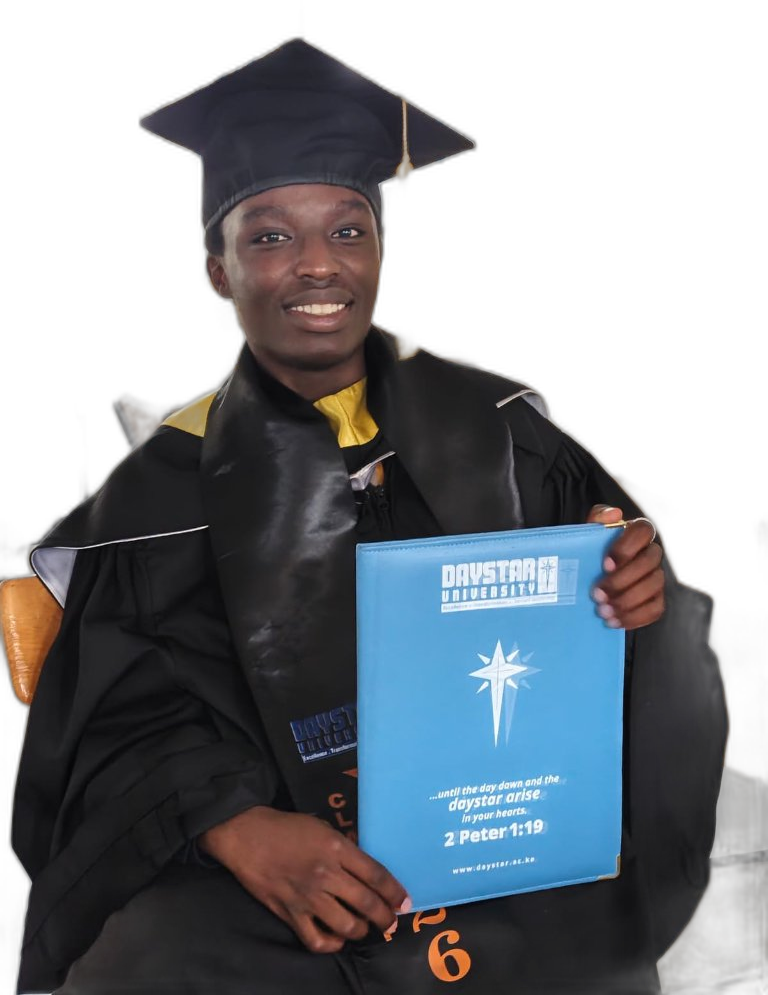
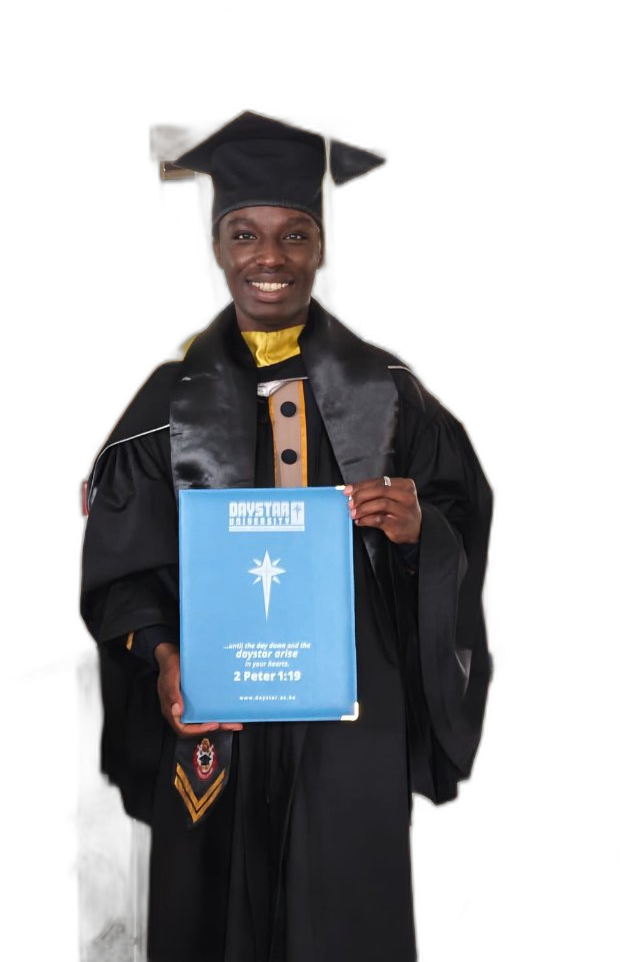
feat: update graduation cutout to new upright standing portrait with clean background removal

diff --git a/admin.html b/admin.html
@@ -1545,7 +1545,7 @@
               <!-- Golden Arched Frame -->
               <div
                 style="position: relative; width: 100%; max-width: 175px; height: 215px; border-radius: 85px 85px 8px 8px; border: 3px solid #fbbf24; box-shadow: 0 0 20px rgba(251, 191, 36, 0.35), inset 0 0 15px rgba(251, 191, 36, 0.2); background: radial-gradient(circle at 50% 25%, #1d3557 0%, #0c1a2e 85%); overflow: hidden; display: flex; align-items: flex-end; justify-content: center;">
-                <img id="card-render-portrait" src="assets/images/ian-portrait-cutout.png" alt="Ian Kiromo Githengu"
+                <img id="card-render-portrait" src="assets/images/ian-portrait-cutout.png?v=standing" alt="Ian Kiromo Githengu"
                   style="width: 100%; height: auto; max-height: 210px; object-fit: contain; filter: drop-shadow(0 4px 10px rgba(0,0,0,0.6));">
               </div>
 
@@ -3283,10 +3283,10 @@
         // Graduate Cutout Portrait inside Arch
         const portraitImg = document.getElementById('card-render-portrait');
         if (portraitImg && portraitImg.complete && portraitImg.naturalWidth > 0) {
-          const pw = 330;
+          const pw = 320;
           const ph = Math.round(pw * (portraitImg.naturalHeight / portraitImg.naturalWidth));
           const px = archX + (archW - pw) / 2;
-          const py = archY + archH - ph + 25;
+          const py = archY + archH - ph + 15;
           ctx.drawImage(portraitImg, px, py, pw, ph);
         }
         ctx.restore();
